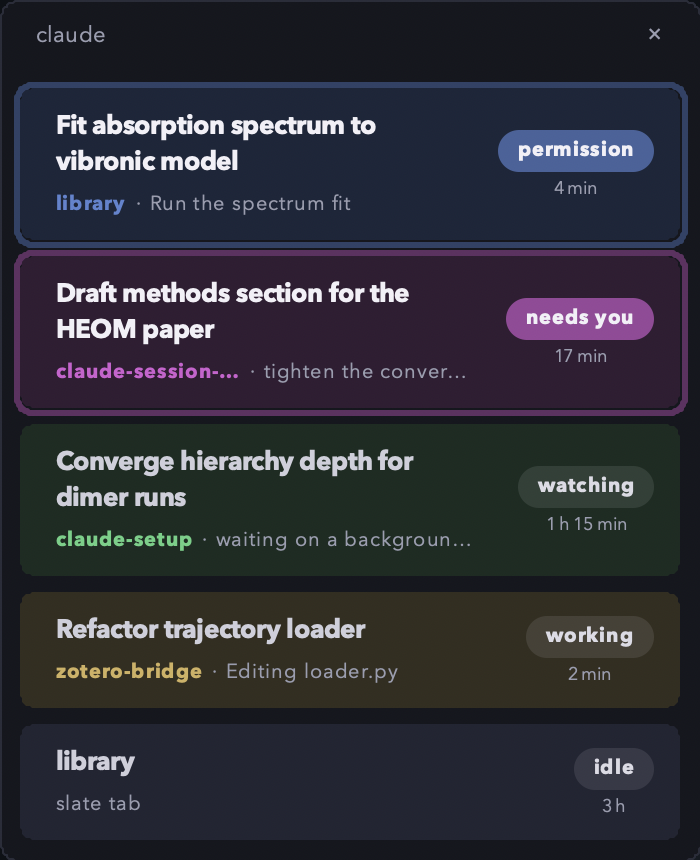
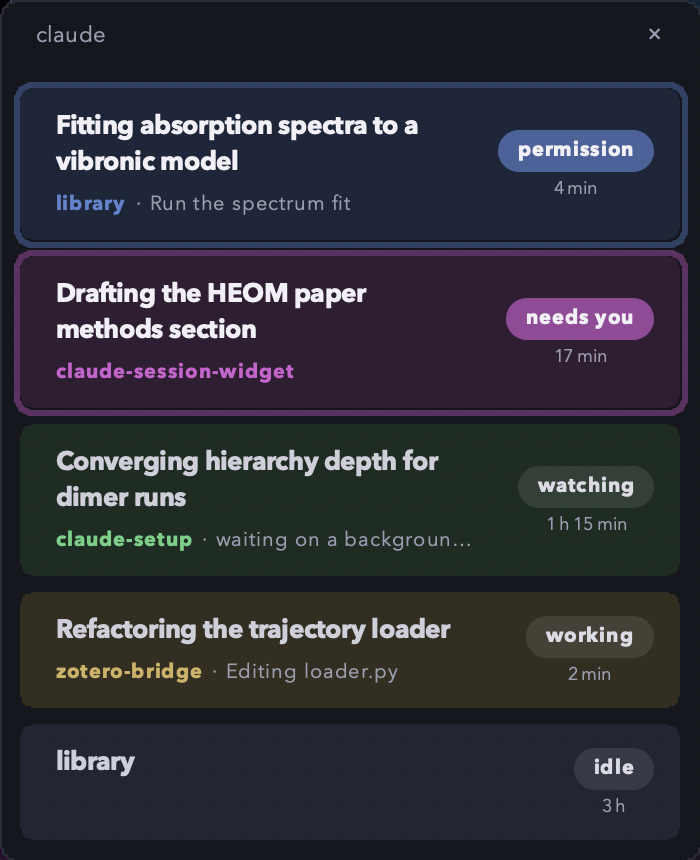
Give the two card lines distinct jobs
The title says what the session is about. The second line says where and
what now: the project, plus the live step while working or what Claude is
waiting on while watching. When it is your turn the second line shows only
the project, with no stale step, old chat name or last prompt.

diff --git a/tests/test_widgetlib.py b/tests/test_widgetlib.py
@@ -255,9 +255,8 @@ def test_mirror_uses_claude_name_as_task(tmp_path):
 
 
 def test_subtitle_falls_back_to_colour_name():
-    assert w.subtitle({"task": "fix plot", "color_name": "plum"}) == "fix plot"
-    assert w.subtitle({"task": "", "color_name": "plum"}) == "plum tab"
-    assert w.subtitle({}) == "grey tab"
+    assert w.subtitle({"task": "fix plot", "color_name": "plum"}) == ""     # idle: nothing happening now
+    assert w.subtitle({}) == ""
 
 
 # ---- review fixes ----
@@ -324,7 +323,7 @@ def test_single_instance_lock(tmp_path):
 
 
 def test_subtitle_while_watching_names_what_it_waits_on():
-    assert w.subtitle({"status": "watching", "armed": "a watcher", "task": "run the calc"}) == "waiting on a watcher · run the calc"
+    assert w.subtitle({"status": "watching", "armed": "a watcher", "task": "run the calc"}) == "waiting on a watcher"
     assert w.subtitle({"status": "watching", "armed": "a subagent", "task": ""}) == "waiting on a subagent"
 
 
@@ -598,7 +597,7 @@ def test_subtitle_shows_live_activity_while_working_or_asking():
     s["status"] = "permission"
     assert w.subtitle(s) == "Editing plot.py"
     s["status"] = "needs_input"
-    assert w.subtitle(s) == "last: Editing plot.py"
+    assert w.subtitle(s) == ""                   # your turn: the pill says so, no stale step
     assert w.subtitle({"status": "working", "task": "fix the plot"}) == "fix the plot"
 
 
@@ -672,11 +671,11 @@ def test_summary_becomes_the_headline():
     assert w.display_label(dict(s, label_override="paper")) == "paper"
 
 
-def test_subtitle_names_the_chat_when_the_summary_is_the_headline():
+def test_subtitle_is_empty_when_it_is_your_turn():
     s = {"status": "needs_input", "title": "Lib-drop PDF import", "summary": "Fixing stuck widget statuses",
          "task": "last prompt"}
-    assert w.subtitle(s) == "Lib-drop PDF import"
-    assert w.subtitle({"status": "needs_input", "title": "Lib-drop PDF import", "task": "last prompt"}) == "last prompt"
+    assert w.subtitle(s) == ""
+    assert w.subtitle({"status": "needs_input", "title": "Lib-drop PDF import", "task": "last prompt"}) == ""
 
 
 def test_project_follows_where_the_session_is_now():

diff --git a/scripts/widget.py b/scripts/widget.py
@@ -403,19 +403,21 @@ class Widget:
         return h
 
     def draw_subtitle(self, s, x, y, width, vivid, th, tag):
-        """Project name in the card's accent colour, then the activity or task."""
+        """Project name in the card's accent colour, then what is happening now."""
         c = self.c
         project = w.project_tag(s)
+        now = w.subtitle(s)
         if project:
-            project = self.fit(project, self.f_tag, width * 0.45)
+            project = self.fit(project, self.f_tag, width * 0.45 if now else width)
             c.create_text(x, y, text=project, anchor="w", fill=vivid, font=self.f_tag, tags=(tag,))
-            x += self.f_tag.measure(project) + 4
-            width -= self.f_tag.measure(project) + 4
-            c.create_text(x, y, text="·", anchor="w", fill=th["dim"], font=self.f_sub, tags=(tag,))
-            x += self.f_sub.measure("· ")
-            width -= self.f_sub.measure("· ")
-        sub = self.fit(w.subtitle(s), self.f_sub, max(width, 0))
-        c.create_text(x, y, text=sub, anchor="w", fill=th["dim"], font=self.f_sub, tags=(tag,))
+            if not now:
+                return
+            used = self.f_tag.measure(project) + 4
+            c.create_text(x + used, y, text="·", anchor="w", fill=th["dim"], font=self.f_sub, tags=(tag,))
+            used += self.f_sub.measure("· ")
+            x, width = x + used, width - used
+        c.create_text(x, y, text=self.fit(now, self.f_sub, max(width, 0)), anchor="w",
+                      fill=th["dim"], font=self.f_sub, tags=(tag,))
 
     def pill(self, x1, y1, x2, y2, fill, tag):
         """A crisp capsule: two circles joined by a rectangle. A smoothed polygon

diff --git a/scripts/widgetlib.py b/scripts/widgetlib.py
@@ -113,19 +113,15 @@ def display_label(session):
 
 
 def subtitle(session):
-    """Second line of a row: what Claude is doing right now, what it waits on,
-    the last step it took, the chat's title, your last prompt, or the tab colour."""
-    task = (session.get("task") or "").strip()
+    """Second line of a card: what is happening right now. The step Claude is
+    on while it works, what it waits on while watching, and nothing when it is
+    your turn or idle. The title above says what the session is about."""
     status = session.get("status")
     if status == "watching" and session.get("armed"):
-        return f"waiting on {session['armed']}" + (f" · {task}" if task else "")
-    activity = session.get("activity")
-    if activity:
-        return activity if status in ("working", "permission") else f"last: {activity}"
-    chat = session.get("title") or session.get("tab_title")
-    if chat and chat != display_label(session):
-        return chat
-    return task or f"{session.get('color_name') or 'grey' } tab"
+        return f"waiting on {session['armed']}"
+    if status in ("working", "permission"):
+        return session.get("activity") or (session.get("task") or "").strip()
+    return ""
 
 
 # ---- Claude's own spinner, read from the Terminal tab title ----

diff --git a/README.md b/README.md
@@ -35,9 +35,8 @@ Each Claude tab also gets its own background colour, and its card in the panel m
 Each card is one Claude Code session.
 
 - **The title** is a one-line summary of what the session is working on now, refreshed after each reply. Before the first summary, it is the name Claude Code gives the chat, or else the folder name.
-- **The second line** starts with the project, in the card's colour. The project is the git checkout the session is working in, or else its folder. Then comes what Claude is doing right now, such as "Editing loader.py" or "Run the test suite". Once Claude stops, it shows the start of your last prompt, or what Claude is waiting on.
-- **After Claude stops,** the second line shows the last step it took, or the chat's original name.
-- **The summary** is written by a small model (Haiku, through your own `claude` command) from your last few prompts. Turn it off with `/widget summary off`.
+- **The second line** is where and what now. It starts with the project, in the card's colour: the git checkout the session is working in, or else its folder. While Claude works, it adds the step Claude is on, such as "Editing loader.py". While Claude watches a background job, it says what it is waiting on. When it is your turn, it shows only the project.
+- **The summary** in the title is written by a small model (Haiku, through your own `claude` command) from your last few prompts. Turn it off with `/widget summary off`.
 - **The pill on the right** is the session's status. Under it is how long the session has been in that status, so you can see which one has waited longest.
 
 | Status | Meaning | Card |
